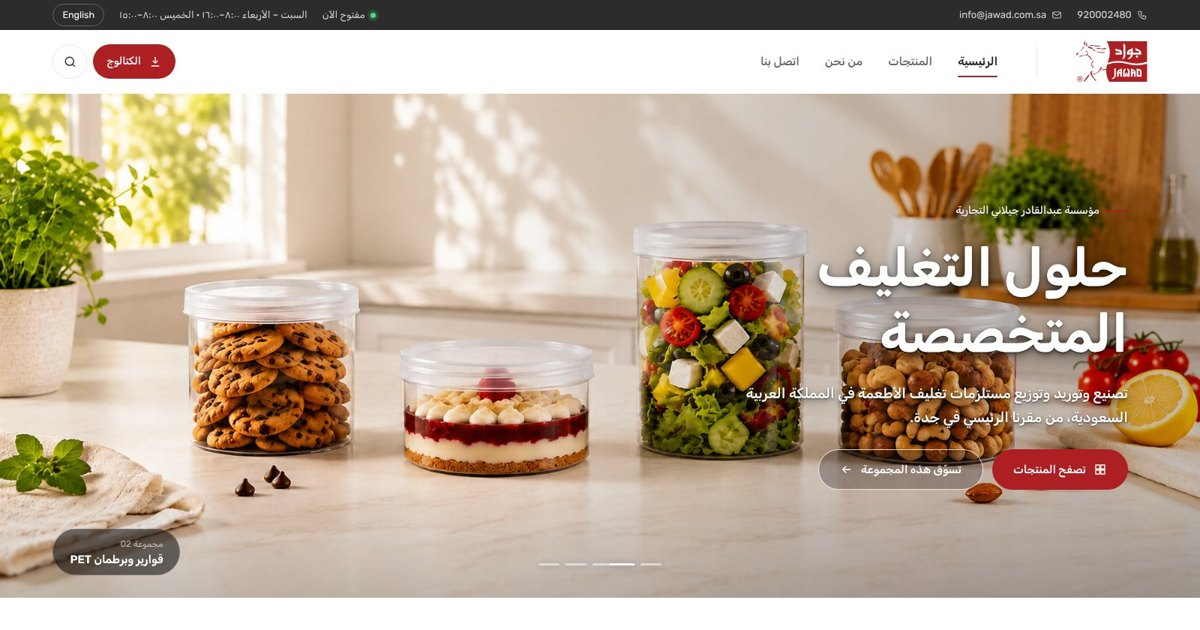
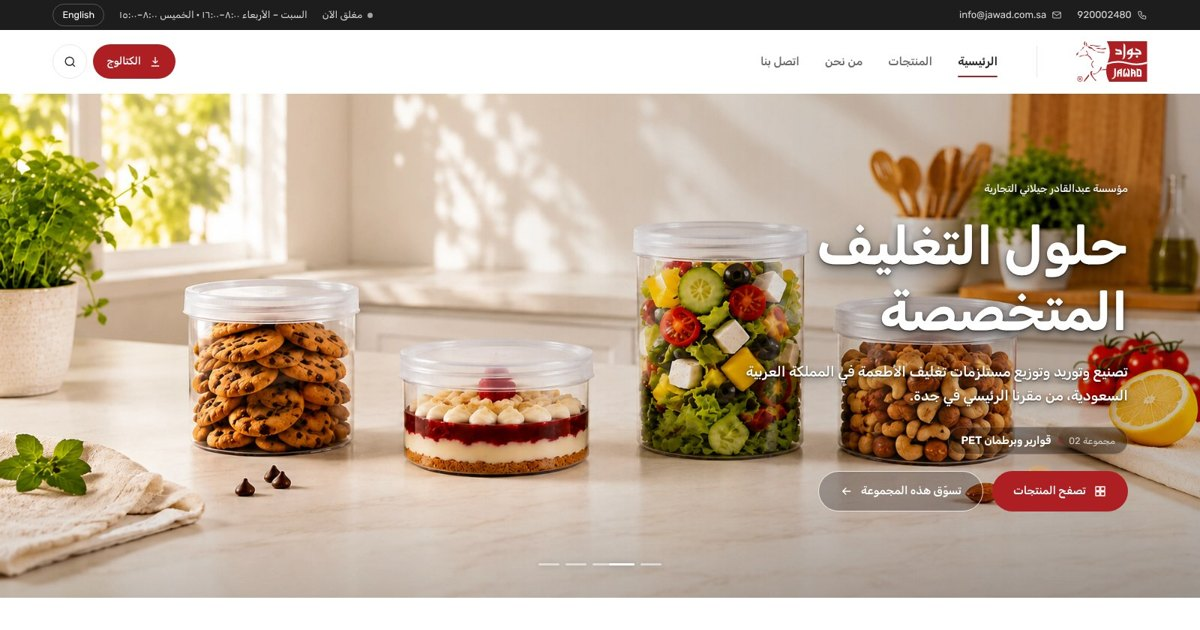
Jawad concept: collection label beside the hero buttons, one dark tone, scroll reveals for cards, white hero text panel on phones
Claude-Session: https://claude.ai/code/session_01XmvRQvnwC1LYVFBXAPJEqj

Changed region(s): [[0.6167, 0.2714, 0.9558, 0.8143], [0.0308, 0.8143, 0.1542, 0.9349], [0.2775, 0.0, 0.3392, 0.0302]]

diff --git a/public/jawad/index.html b/public/jawad/index.html
@@ -1088,6 +1088,66 @@ html[dir=ltr] .stage .slide .im{transform-origin:var(--oxl,var(--ox,50%)) var(--
 @media (max-width:640px){.hcap .scap{min-height:0}}
 /* phones/tablets: the cups photo is shown a little closer too (text sits under the photo there, so it stays centred) */
 @media (max-width:1120px){html[dir] .stage .slide .im[style*="--s:1.5"]{--s:1.38!important;transform-origin:54% 66%}}
+
+/* =====================================================================================
+   v11 — one dark colour everywhere, collection label inside the hero text, richer scroll reveals
+   ===================================================================================== */
+.topbar,body::before{background:var(--dark)}
+.hero8,.hx,.hcap{background-color:var(--dark)}
+.hero8 .hx{background-color:transparent}
+@media (max-width:1120px){.hero8 .hx{background-color:var(--dark)}}
+
+/* current collection: a small label right above the two buttons */
+.hx-in .scap{display:inline-flex;align-items:center;gap:10px;max-width:100%;min-height:0;padding:7px 16px;border-radius:999px;background:rgba(20,16,16,.4);border:1px solid rgba(255,255,255,.2);color:#fff;text-shadow:none;margin-top:4px;transition:background .3s,border-color .3s}
+@media (hover:hover){.hx-in .scap:hover{background:rgba(20,16,16,.6);border-color:rgba(255,255,255,.4)}}
+.hx-in .scap .sk{font-size:12.5px;color:rgba(255,255,255,.7);white-space:nowrap;flex:none}
+.hx-in .scap .sk::after{content:"";display:inline-block;width:4px;height:4px;border-radius:50%;background:var(--red);vertical-align:middle;margin-inline-start:10px}
+.hx-in .scap b{font-size:14.5px;font-weight:600;line-height:1.4;white-space:nowrap;overflow:hidden;text-overflow:ellipsis;display:block;min-height:0;-webkit-line-clamp:unset}
+.hx-in .scap .sn{display:none}
+.hx-in .hbtns{margin-top:2px}
+@media (max-width:1120px){.hx-in .scap{background:rgba(255,255,255,.07);border-color:rgba(255,255,255,.14)}}
+
+/* scroll reveals for cards and tiles: they rise, settle from a slight zoom-out, and their photo eases in */
+.bento > .rv,.mats3 > .rv,#rail > .rv,.sectors > .rv,.cgrid > .rv,.bchips > .rv,.pgrid > .rv,.m5s > .rv,.mf > .rv,.pnav > .rv{
+  transform:translate3d(0,56px,0) scale(.94);
+  transition:opacity .9s cubic-bezier(.22,.61,.36,1) var(--d,0s),transform 1.25s cubic-bezier(.16,1,.3,1) var(--d,0s)}
+.bento > .rv.rv-on,.mats3 > .rv.rv-on,#rail > .rv.rv-on,.sectors > .rv.rv-on,.cgrid > .rv.rv-on,.bchips > .rv.rv-on,.pgrid > .rv.rv-on,.m5s > .rv.rv-on,.mf > .rv.rv-on,.pnav > .rv.rv-on{transform:none}
+.rv:not(.rv-on) .ph img.ld,.rv:not(.rv-on) .bt-imgs img.ld,.rv:not(.rv-on) .disc img{transform:scale(1.14) translateY(8px)}
+.rv:not(.rv-on) .sector .icw,.rv:not(.rv-on) .icw,.rv:not(.rv-on) .si,.rv:not(.rv-on) .fi{transform:scale(.6) rotate(-12deg)}
+.sector .icw,.cc .icw,.m5s .si,.mf .fi{transition:transform 1s cubic-bezier(.34,1.56,.64,1) calc(var(--d,0s) + .25s),background .4s}
+/* section heads: the small red label draws in */
+.head .kicker{position:relative}
+.rv:not(.rv-on) .kicker,.head.rv:not(.rv-on) .kicker{letter-spacing:.12em}
+.head .kicker{transition:letter-spacing 1.2s cubic-bezier(.16,1,.3,1)}
+@media (prefers-reduced-motion:reduce){.rv:not(.rv-on) *{transform:none!important}}
+.hx-in .scap{grid-area:auto!important;width:auto!important;justify-content:flex-start;flex-wrap:nowrap}
+
+/* =====================================================================================
+   v12 — on laptops and desktops the whole banner (photo, text and buttons) fits in the first screen
+   ===================================================================================== */
+@media (min-width:1121px){
+  .hero8 .stage{aspect-ratio:auto;height:min(calc(100vw * 1626 / 3870),max(460px,calc(100svh - var(--top,125px))))}
+}
+
+/* =====================================================================================
+   v13 — no red rule before the company name; on phones/tablets the text under the photo sits on white
+   ===================================================================================== */
+.hx-in .kicker::before{display:none}
+@media (max-width:1120px){
+  .hero8,.hero8 .hx{background-color:#fff}
+  .hero8 .hx .wrap{padding-block:24px 8px}
+  .hx-in{color:var(--ink)}
+  .hx-in .kicker{color:var(--red);opacity:1}
+  .hx-in h1{color:var(--ink)}
+  .hx-in .lead{color:var(--mute);font-weight:400}
+  .hx-in .hgo{background:#fff;color:var(--ink);border-color:var(--line)}
+  .hx-in .scap{background:var(--stone);border-color:var(--stone);color:var(--ink)}
+  .hx-in .scap .sk{color:var(--mute)}
+  .hx-in .scap b{color:var(--ink)}
+  .hero8{border-bottom:1px solid var(--line)}
+}
+@media (hover:hover) and (max-width:1120px){.hx-in .hgo:hover{background:var(--ink);color:#fff;border-color:var(--ink)}.hx-in .scap:hover{background:var(--stone-2);border-color:var(--stone-2)}}
+@media (max-width:640px){.hx-in .scap{flex-wrap:wrap;row-gap:2px;border-radius:16px}.hx-in .scap b{white-space:normal}}
 </style>
 
 <div class="curtain intro" id="curtain" aria-hidden="true"><img src="logo-white.svg" alt=""></div>
@@ -1312,8 +1372,7 @@ function homeHTML(){
   return `
 <section class="hero8 slider" id="hero">
   <div class="stage" id="stage">${SLIDES.map((s,i)=>`<div class="slide ${i===0?'on':''}"><img class="im" src="${s.img}"${s.z?` style="${s.z}"`:''} alt="${esc(slideInfo(s).title)}"></div>`).join('')}<div class="sctl"><button class="ic" id="hPrev" aria-label="Previous"><svg viewBox="0 0 24 24" fill="none" stroke="currentColor" stroke-width="1.9"><path d="M15 6l-6 6 6 6"/></svg></button><span class="counter num ltr" id="cnt">01 / 0${SLIDES.length}</span><div class="sbars" id="bars">${SLIDES.map((s,i)=>`<button aria-label="${i+1}" class="${i===0?'on':''}"><i><b></b></i></button>`).join('')}</div><button class="ic" id="hNext" aria-label="Next"><svg viewBox="0 0 24 24" fill="none" stroke="currentColor" stroke-width="1.9"><path d="M9 6l6 6-6 6"/></svg></button></div><div class="shade"></div></div>
-  <div class="hx"><div class="wrap"><div class="hx-in"><span class="kicker">${t('company')}</span><h1>${t('heroT')}</h1><p class="lead">${t('heroP')}</p><div class="hbtns"><a class="btn btn-red" href="#products">${I('grid')}${t('browse')}</a><a class="btn hgo" id="capGo" href="${slideInfo(SLIDES[0]).href}">${t('shopThis')}${ARR}</a></div></div></div></div>
-  <div class="hcap"><div class="pill">${capHTML(0)}</div></div>
+  <div class="hx"><div class="wrap"><div class="hx-in"><span class="kicker">${t('company')}</span><h1>${t('heroT')}</h1><p class="lead">${t('heroP')}</p>${capHTML(0)}<div class="hbtns"><a class="btn btn-red" href="#products">${I('grid')}${t('browse')}</a><a class="btn hgo" id="capGo" href="${slideInfo(SLIDES[0]).href}">${t('shopThis')}${ARR}</a></div></div></div></div>
 </section>
 
 <section class="sec" style="padding-bottom:0"><div class="wrap">
@@ -1365,7 +1424,9 @@ function fitHero(){const h=document.querySelector('.hero-top h1');if(!h)return;
   let f=42;h.style.fontSize=f+'px';r.selectNodeContents(h);while(f>28&&lines()>2){f-=1;h.style.fontSize=f+'px';r.selectNodeContents(h)}
   if(lines()>2)h.style.fontSize='34px'}
 addEventListener('resize',()=>{if(route==='home')fitHero()});
-function bindHome(){fitHero();document.fonts&&document.fonts.ready.then(fitHero);
+function topVar(){if(scrollY>8)return;const tb=document.querySelector('.topbar'),hd=document.getElementById('hd');document.documentElement.style.setProperty('--top',((tb?tb.offsetHeight:0)+(hd?hd.offsetHeight:0))+'px')}
+addEventListener('resize',topVar);
+function bindHome(){topVar();fitHero();document.fonts&&document.fonts.ready.then(fitHero);
   // slider: each photo is scaled so the products are always fully visible; any leftover area shows a soft blur of the same photo
   const sl=[...document.querySelectorAll('.stage .slide')],bars=[...document.querySelectorAll('#bars button')],cnt=document.getElementById('cnt');let i=0;
   const show=n=>{if(n===i)return;const prev=sl[i];prev.classList.remove('on');prev.classList.add('leaving');setTimeout(()=>prev.classList.remove('leaving'),1400);
@@ -1575,7 +1636,7 @@ const spIO=('IntersectionObserver' in window)&&!reduce?new IntersectionObserver(
 function motion(r){
   /* on the very first visit the hero waits for the logo curtain to lift, so its entrance is actually seen */
   const base=firstView?Math.max(.1,1.75-performance.now()/1000):.35;
-  if(r==='home')rv([...$$('.hx-in > *'),...$$('.hcap .pill')],.14,base,9);
+  if(r==='home')rv([...$$('.hx-in > *')],.14,base,9);
   firstView=false;
   $$('.phead .wrap').forEach(w=>rv([...w.children],.12,base));
   if(spIO)$$('.phead h1, .head h2, .made5 h2, .cta3 h2, .brp h2').forEach(h=>{splitWords(h);spIO.observe(h)});
